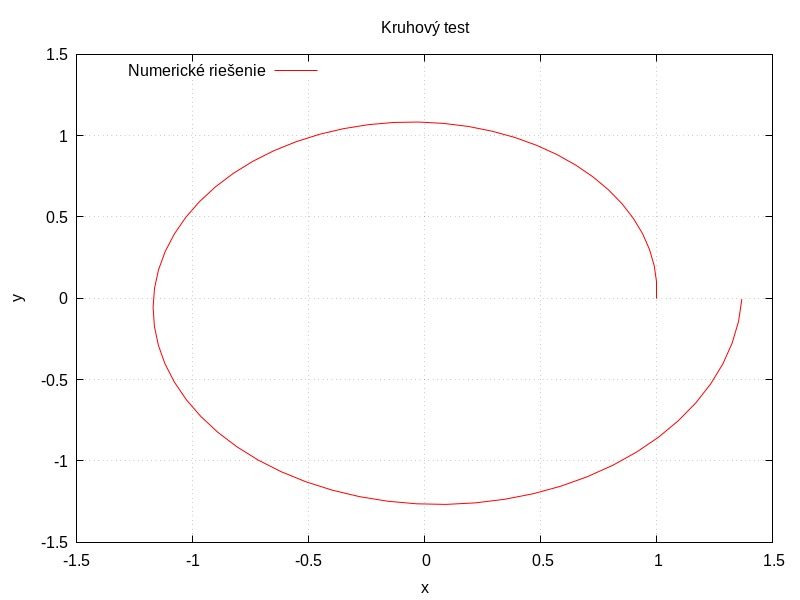
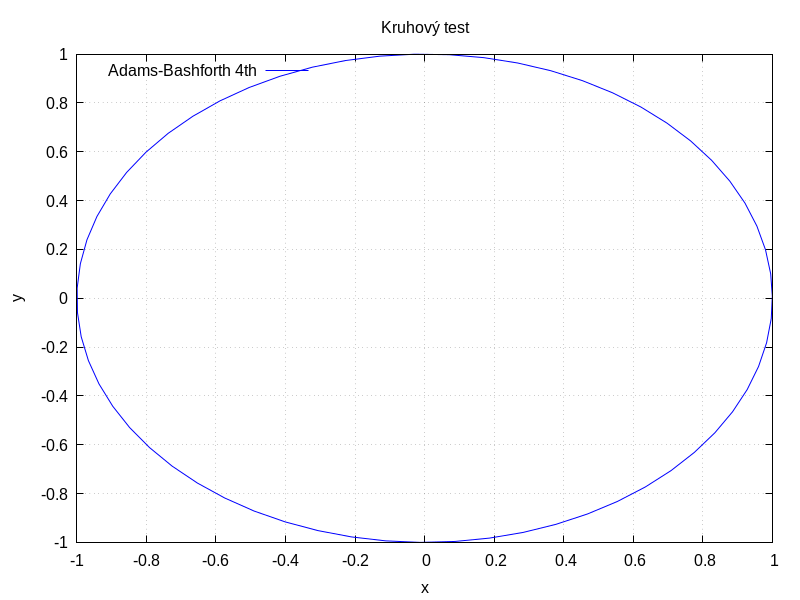
Added AB4

diff --git a/src/ab4.cpp b/src/ab4.cpp
@@ -1,0 +1,29 @@
+#include "ab4.hpp"
+
+AdamsBashforth4::AdamsBashforth4(double step) : ODEsolver(step), rk4_solver(step), fi(4) {}
+
+std::vector<double> AdamsBashforth4::step(std::function<std::vector<double>(double, std::vector<double>)> f, double &t, std::vector<double> &y)
+{
+    fi[p] = f(t, y);
+    
+    if (n < 4) {
+        ++n;
+        p = (p + 1) % 4;
+        return rk4_solver.step(f, t, y);
+    }
+
+    std::vector<double> y_n(y.size());
+    for (size_t i = 0; i < y.size(); ++i) {
+        y_n[i] = y[i] + (h / 24.0) * (
+            55 * fi[(p + 0) % 4][i] -
+            59 * fi[(p + 3) % 4][i] +
+            37 * fi[(p + 2) % 4][i] -
+            9 * fi[(p + 1) % 4][i]
+        );
+    }
+    
+    ++n;
+    p = (p + 1) % 4;
+    t += h;
+    return y_n;
+}

diff --git a/src/main.cpp b/src/main.cpp
@@ -5,15 +5,18 @@
 
 int main()
 {
+    // Circular test
+    // dx/dt = -y
+    // dy/dt = x
     auto system = [](double t, std::vector<double> y) -> std::vector<double> {
         return {-y[1], y[0]};
     };
 
     set_simtime(0.0, 2 * 3.14);
-    set_output("simulation_data.txt");
-    Euler solver(0.1);
-
-    start_simulation(system, {1.0, 0.0}, solver);
+    set_output("ab4.txt");
+    AdamsBashforth4 ab4_solver(0.1);
+    
+    start_simulation(system, {1.0, 0.0}, ab4_solver);
 
     return EXIT_SUCCESS;
 }

diff --git a/src/ab4.hpp b/src/ab4.hpp
@@ -1,0 +1,19 @@
+#ifndef AB4_HPP
+#define AB4_HPP
+
+#include "ode.hpp"
+#include "rk4.hpp"
+
+class AdamsBashforth4 : public ODEsolver {
+public:
+    AdamsBashforth4(double step);
+    std::vector<double> step(std::function<std::vector<double>(double, std::vector<double>)> f, double &t, std::vector<double> &y) override;
+
+private:
+    unsigned n = 0;
+    unsigned p = 0;
+    RungeKutta4 rk4_solver;
+    std::vector<std::vector<double>> fi;
+};
+
+#endif

diff --git a/src/sim.cpp b/src/sim.cpp
@@ -1,5 +1,6 @@
 #include <fstream>
 #include <iostream>
+#include <cmath>
 #include "sim.hpp"
 
 double t, t_start, t_end;
@@ -28,5 +29,5 @@ void start_simulation(std::function<std::vector<double>(double, std::vector<doub
     }
 
     file.close();
-    std::cout << "Dáta uložené do simulation_data.txt\n";
+    std::cout << "Dáta uložené do " << out_file << std::endl;
 }

diff --git a/src/sim.hpp b/src/sim.hpp
@@ -5,8 +5,9 @@
 #include <functional>
 #include <cstdlib>
 #include "ode.hpp"
-#include "rk4.hpp"
 #include "euler.hpp"
+#include "rk4.hpp"
+#include "ab4.hpp"
 
 void set_simtime(double start, double end);
 void set_output(const char *file);
